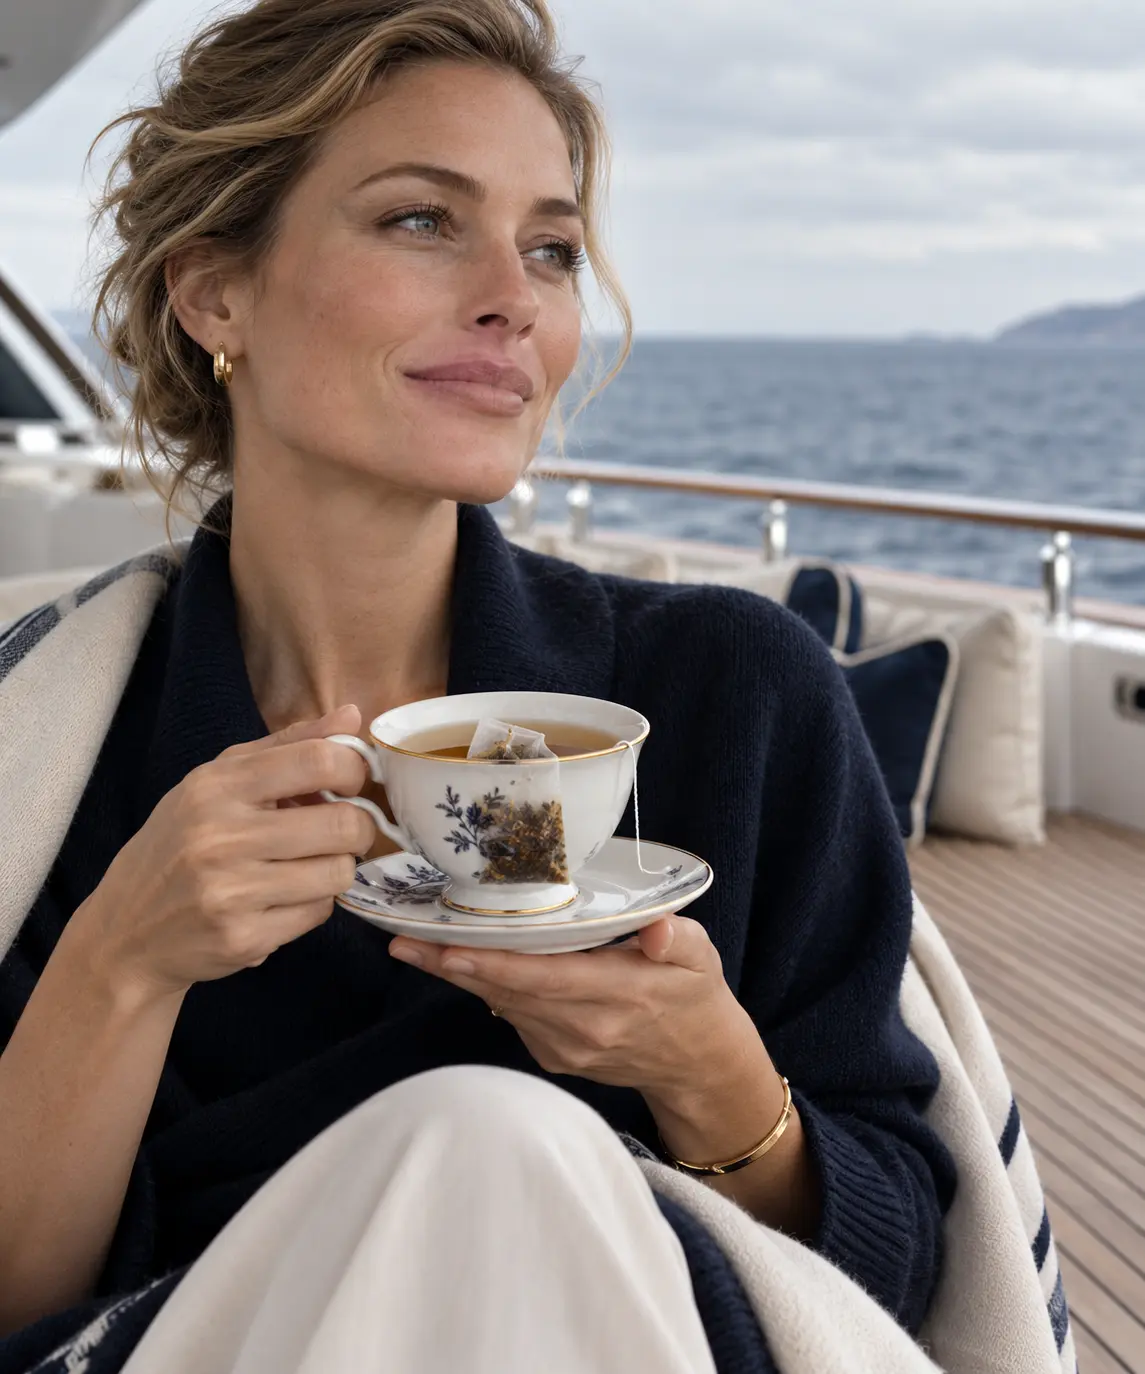
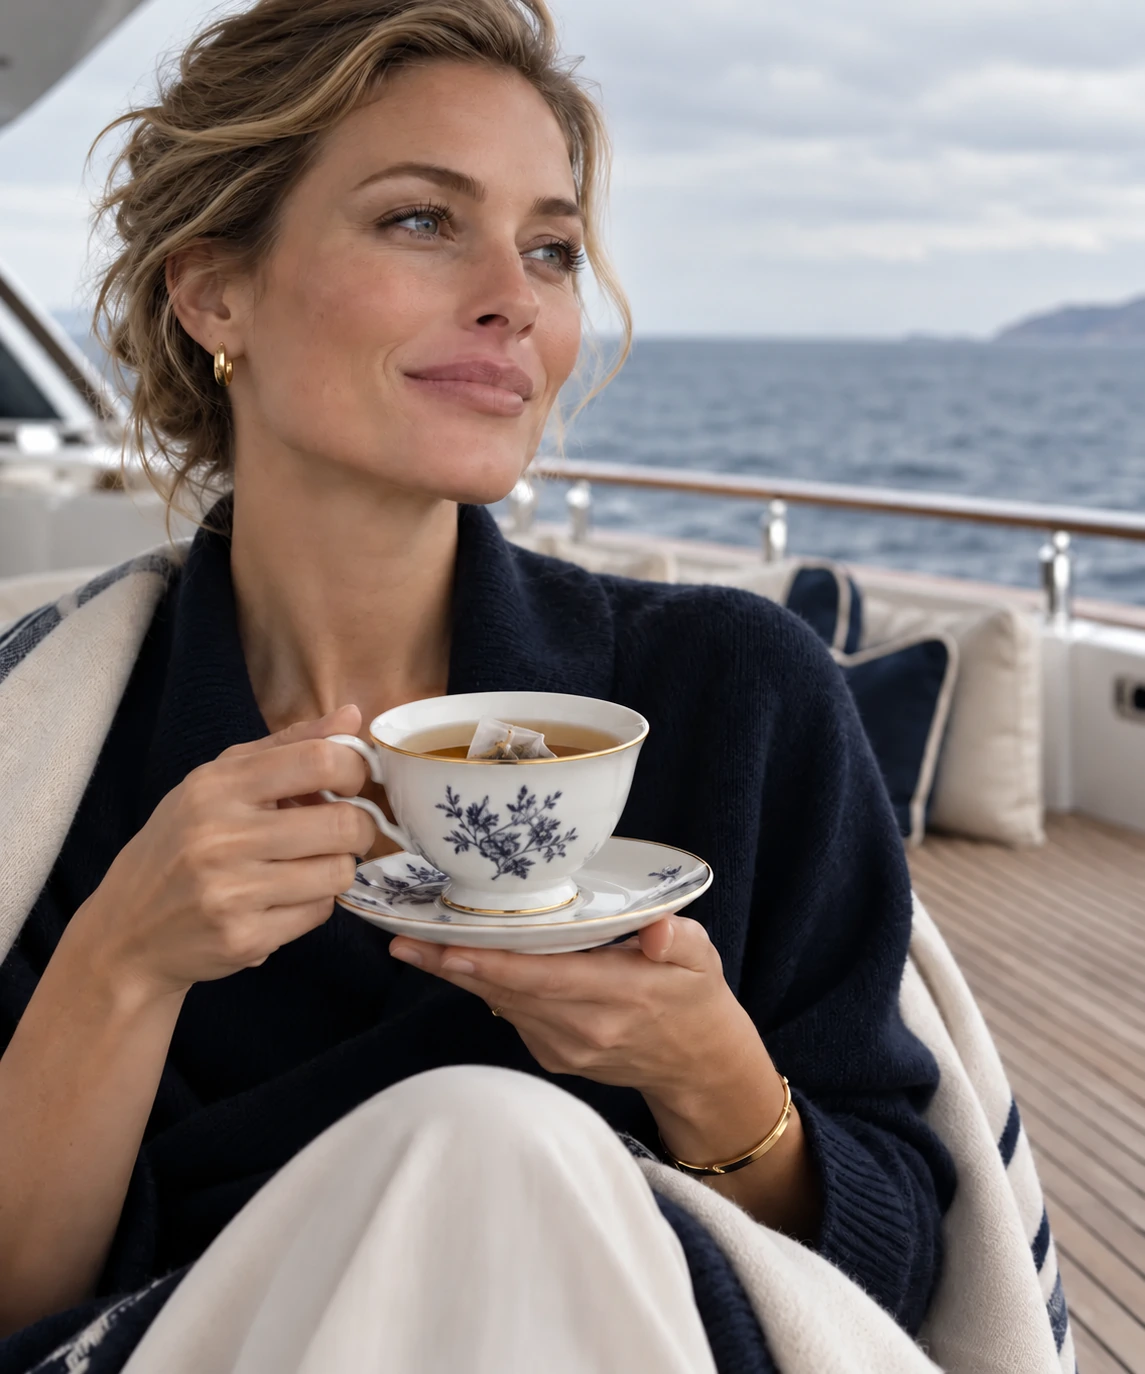
Clarify trustee copy and retouch tea photo

diff --git a/app/page.tsx b/app/page.tsx
@@ -3,15 +3,15 @@ import Link from "next/link";
 export default function Home() {
   return <main>
     <section className="home-hero">
-      <div className="hero-copy"><span className="eyebrow">A private holiday from ownership</span><h1 className="serif">All yours.<br/><em>Someone else’s mental burden.</em></h1><p>For twenty-four exquisite hours, you keep the use of what you own. The trustee takes responsibility for its liabilities, its upkeep, and preserving its value—and shoulders the mental burden of keeping track of it all.</p><a href="/enroll" className="btn btn-gold">Begin your 24 hours <span aria-hidden="true">↗</span></a></div>
+      <div className="hero-copy"><span className="eyebrow">A private holiday from ownership</span><h1 className="serif">All yours.<br/><em>Someone else’s mental burden.</em></h1><p>For twenty-four exquisite hours, you keep the use of what you own. Our trustee takes responsibility for its liabilities, its upkeep, and preserving its value—and shoulders the mental burden of keeping track of it all.</p><a href="/enroll" className="btn btn-gold">Begin your 24 hours <span aria-hidden="true">↗</span></a></div>
       <div className="hero-image" role="img" aria-label="Elegant yacht on the Atlantic coast with friends enjoying the afternoon"><span className="image-stamp">The art of temporary nothing</span></div>
     </section>
     <div className="ribbon">One day of freedom &nbsp; · &nbsp; 24 hours of exquisite perspective &nbsp; · &nbsp; Everything returns at the end</div>
-    <section className="section"><div className="wrap intro-grid"><div><span className="eyebrow">The proposition</span><h2 className="serif section-heading">A little less<br/>to carry.</h2></div><div><p className="lead">Imagine enjoying the yacht without worrying about liability or maintenance. The property without weighing every operating risk and capital need. The portfolio without the constant uncertainty of market fluctuations, long-term value, and growing capital.</p><p className="body">The trustee accepts your itemized estate for one day, taking on the risks and responsibilities that accompany it. A license lets you keep enjoying the assets while their care and preservation become the trustee’s concern. For 24 hours, enjoy a sadhu’s freedom from worldly possessions and the joy of having nothing to manage, with no lifetime vow and, unusually, continued use of the yacht.</p><Link className="btn btn-outline" href="/experience">Explore the experience</Link></div></div></section>
-    <section className="section worry-section"><div className="wrap"><span className="eyebrow">An exercise in perspective</span><h2 className="serif section-heading">How much can a worry weigh?</h2><div className="worry-grid"><div className="worry-pane"><span className="eyebrow">Before</span><h3>A kingdom’s<br/>worth of worry.</h3><p>Every valuable asset brings exposure to loss, an obligation to maintain it, and decisions that can either protect or erode its value. These mental burdens add up and erode the enjoyment of great wealth.</p></div><div className="worry-pane"><span className="eyebrow">For one day</span><h3>A tea bag’s<br/>worth of worry.</h3><p>Enjoy the boat. The trustee manages its liability exposure, oversees maintenance, protects its value, and takes on the mental burden of thinking about it all. Heirs may continue debating your will; your attendance is waived.</p></div></div></div></section>
+    <section className="section"><div className="wrap intro-grid"><div><span className="eyebrow">The proposition</span><h2 className="serif section-heading">A little less<br/>to carry.</h2></div><div><p className="lead">Imagine enjoying the yacht without worrying about liability or maintenance. The property without weighing every operating risk and capital need. The portfolio without the constant uncertainty of market fluctuations, long-term value, and growing capital.</p><p className="body">Our trustee accepts your itemized estate for one day, taking on the risks and responsibilities that accompany it. A license lets you keep enjoying the assets while their care and preservation become our trustee’s concern. For 24 hours, enjoy a sadhu’s freedom from worldly possessions and the joy of having nothing to manage, with no lifetime vow and, unusually, continued use of the yacht.</p><Link className="btn btn-outline" href="/experience">Explore the experience</Link></div></div></section>
+    <section className="section worry-section"><div className="wrap"><span className="eyebrow">An exercise in perspective</span><h2 className="serif section-heading">How much can a worry weigh?</h2><div className="worry-grid"><div className="worry-pane"><span className="eyebrow">Before</span><h3>A kingdom’s<br/>worth of worry.</h3><p>Every valuable asset brings exposure to loss, an obligation to maintain it, and decisions that can either protect or erode its value. These mental burdens add up and erode the enjoyment of great wealth.</p></div><div className="worry-pane"><span className="eyebrow">For one day</span><h3>A tea bag’s<br/>worth of worry.</h3><p>Enjoy the boat. Our trustee manages its liability exposure, oversees maintenance, protects its value, and takes on the mental burden of thinking about it all. Heirs may continue debating your will; your attendance is waived.</p></div></div></div></section>
     <section className="image-story"><div className="story-image" role="img" aria-label="Well-dressed couple enjoying a quiet moment by a luxury car"/><div className="story-copy"><span className="eyebrow">The optional absence</span><h2 className="serif">For those who want to go further.</h2><p>Choose Nothing Licensed Back. For 24 hours, no use license is issued for your listed assets; only existing automatic payments continue. Tomorrow, your portfolio will be waiting, along with a different perspective on what you carry.</p><a href="/enroll?addon=no-license" className="btn btn-light">Select your experience</a></div></section>
     <section className="section"><div className="wrap"><span className="eyebrow">The process</span><h2 className="serif section-heading">Meticulous, naturally.</h2><div className="steps-grid"><div className="step-card"><span className="number">01</span><h3>Choose</h3><p>Select your 24-hour wealth holiday, add-ons or gift invitation.</p></div><div className="step-card"><span className="number">02</span><h3>Enumerate</h3><p>Describe each asset in a detailed private inventory.</p></div><div className="step-card"><span className="number">03</span><h3>Sign</h3><p>Review the trust instrument and apply your signature.</p></div><div className="step-card"><span className="number">04</span><h3>Exhale</h3><p>Complete checkout and take your day off.</p></div></div></div></section>
-    <section className="section worry-section"><div className="wrap intro-grid"><div className="tea-image" role="img" aria-label="A cup of tea with a tea bag on a yacht deck"/><div><span className="eyebrow">An impeccably unusual gift</span><h2 className="serif section-heading">Give someone<br/>nothing.</h2><p className="body">Offer a friend a day without the responsibility of protecting what they own. Present a gift card, or invite them to join your own 24-hour engagement. Only they can choose and sign for their own wealth.</p><a href="/enroll?mode=gift" className="btn btn-dark">Explore gifting</a></div></div></section>
+    <section className="section worry-section"><div className="wrap intro-grid"><div className="tea-image" role="img" aria-label="A woman enjoying tea on a yacht"/><div><span className="eyebrow">An impeccably unusual gift</span><h2 className="serif section-heading">Give someone<br/>nothing.</h2><p className="body">Offer a friend a day without the responsibility of protecting what they own. Present a gift card, or invite them to join your own 24-hour engagement. Only they can choose and sign for their own wealth.</p><a href="/enroll?mode=gift" className="btn btn-dark">Explore gifting</a></div></div></section>
     <section className="section"><div className="wrap intro-grid"><div><span className="eyebrow">Junior client services</span><h2 className="serif section-heading">No wealth yet?<br/>Give away a sibling.</h2></div><div><p className="lead">A brother or sister can be quite a lot to carry.</p><p className="body">The Junior Office will accept one for a 24-hour holding period, complete with a certificate suitable for framing.</p><Link href="/children" className="btn btn-outline">Enter the Junior Office</Link></div></div></section>
     <section className="closing"><h2 className="serif">Possess nothing.<br/>Enjoy everything.</h2><p>Or almost nothing, if you prefer the full exercise. Either way, your wealth returns precisely where it began: with you.</p><a href="/enroll" className="btn btn-dark">Begin your day</a></section>
   </main>;

diff --git a/app/experience/page.tsx b/app/experience/page.tsx
@@ -2,8 +2,8 @@ import Link from "next/link";
 
 export default function Experience() {
   return <main>
-    <section className="inner-hero"><div className="wrap inner-grid"><div><span className="eyebrow">The 24-hour experience</span><h1 className="serif section-heading">A splendid day<br/>off the balance sheet.</h1><p>Wealth brings assets worth enjoying. It also demands attention to their risks, condition and value. For one day, the trustee takes that responsibility.</p><a href="/enroll" className="btn btn-gold">Curate your day</a></div><div className="inner-photo tea-photo" role="img" aria-label="A peaceful tea moment on a yacht"/></div></section>
-    <section className="section"><div className="wrap"><span className="eyebrow">The collection</span><h2 className="serif section-heading">What is included.</h2><div className="product-grid"><article className="product-card"><span className="eyebrow">The signature experience</span><h3 className="serif">The Wealth Holiday</h3><p>List your holdings. Review the trust instrument and apply your signature. For 24 hours, the trustee oversees the risks and care of the estate while a license preserves your use of everything.</p><div className="product-bottom"><strong>$249 <small>illustrative only</small></strong><a href="/enroll">Choose experience</a></div></article><article className="product-card accent-card"><span className="eyebrow">Optional add-on</span><h3 className="serif">Nothing Licensed Back</h3><p>For 24 hours, no use license is issued for listed possessions, accounts or discretionary spending. Automatic payments already in motion continue.</p><div className="product-bottom"><strong>+$99 <small>illustrative only</small></strong><a href="/enroll?addon=no-license">Add to my day</a></div></article><article className="product-card"><span className="eyebrow">Optional add-on</span><h3 className="serif">The Companion Release</h3><p>Invite a friend or family member to the same holiday. They prepare their own schedule and sign their own instrument.</p><div className="product-bottom"><strong>+$149 <small>illustrative only</small></strong><a href="/enroll?addon=companion">Invite someone</a></div></article></div></div></section>
+    <section className="inner-hero"><div className="wrap inner-grid"><div><span className="eyebrow">The 24-hour experience</span><h1 className="serif section-heading">A splendid day<br/>off the balance sheet.</h1><p>Wealth brings assets worth enjoying. It also demands attention to their risks, condition and value. For one day, our trustee takes that responsibility.</p><a href="/enroll" className="btn btn-gold">Curate your day</a></div><div className="inner-photo tea-photo" role="img" aria-label="A peaceful tea moment on a yacht"/></div></section>
+    <section className="section"><div className="wrap"><span className="eyebrow">The collection</span><h2 className="serif section-heading">What is included.</h2><div className="product-grid"><article className="product-card"><span className="eyebrow">The signature experience</span><h3 className="serif">The Wealth Holiday</h3><p>List your holdings. Review the trust instrument and apply your signature. For 24 hours, our trustee oversees the risks and care of the estate while a license preserves your use of everything.</p><div className="product-bottom"><strong>$249 <small>illustrative only</small></strong><a href="/enroll">Choose experience</a></div></article><article className="product-card accent-card"><span className="eyebrow">Optional add-on</span><h3 className="serif">Nothing Licensed Back</h3><p>For 24 hours, no use license is issued for listed possessions, accounts or discretionary spending. Automatic payments already in motion continue.</p><div className="product-bottom"><strong>+$99 <small>illustrative only</small></strong><a href="/enroll?addon=no-license">Add to my day</a></div></article><article className="product-card"><span className="eyebrow">Optional add-on</span><h3 className="serif">The Companion Release</h3><p>Invite a friend or family member to the same holiday. They prepare their own schedule and sign their own instrument.</p><div className="product-bottom"><strong>+$149 <small>illustrative only</small></strong><a href="/enroll?addon=companion">Invite someone</a></div></article></div></div></section>
     <section className="gift-band"><div className="wrap gift-band-grid"><div><span className="eyebrow">A gift of perspective</span><h2 className="serif section-heading">Give a day of nothing.</h2><p>For the person who has everything: an exquisitely understated gift card inviting them to set the entire collection down for a day. The recipient decides what to list and whether to participate.</p><a href="/enroll?mode=gift" className="btn btn-light">Create a gift card</a></div><div className="gift-preview"><div className="gift-preview-top"><span className="brand-mark">G</span><span>PRIVATE INVITATION · 24 HOURS</span></div><div className="serif gift-preview-title">The gift of<br/>having nothing.</div><div className="gift-preview-bottom">GIVEAWAYMYWEALTH.COM <span>NO. 001 / PRIVATE</span></div></div></div></section>
     <section className="section"><div className="wrap intro-grid"><div><span className="eyebrow">For the younger generation</span><h2 className="serif section-heading">No portfolio?<br/>Give away a sibling.</h2></div><div><p className="lead">Our Junior Office accepts brothers and sisters for an impeccably documented 24-hour holiday.</p><p className="body">Select the sibling, state their chief offense, and collect a certificate worthy of framing above the toy chest. No names or payment details required.</p><Link href="/children" className="btn btn-dark">Visit the Junior Office</Link></div></div></section>
     <section className="section worry-section"><div className="wrap narrow"><span className="eyebrow">A precise distinction</span><h2 className="serif section-heading">A day without stewardship.</h2><p className="large-copy">The standard arrangement separates the enjoyment of an asset from the responsibility for its care and value. With Nothing Licensed Back, you set aside its use as well for the 24-hour term.</p><Link href="/arrangement" className="btn btn-outline">Read the arrangement</Link></div></section>
